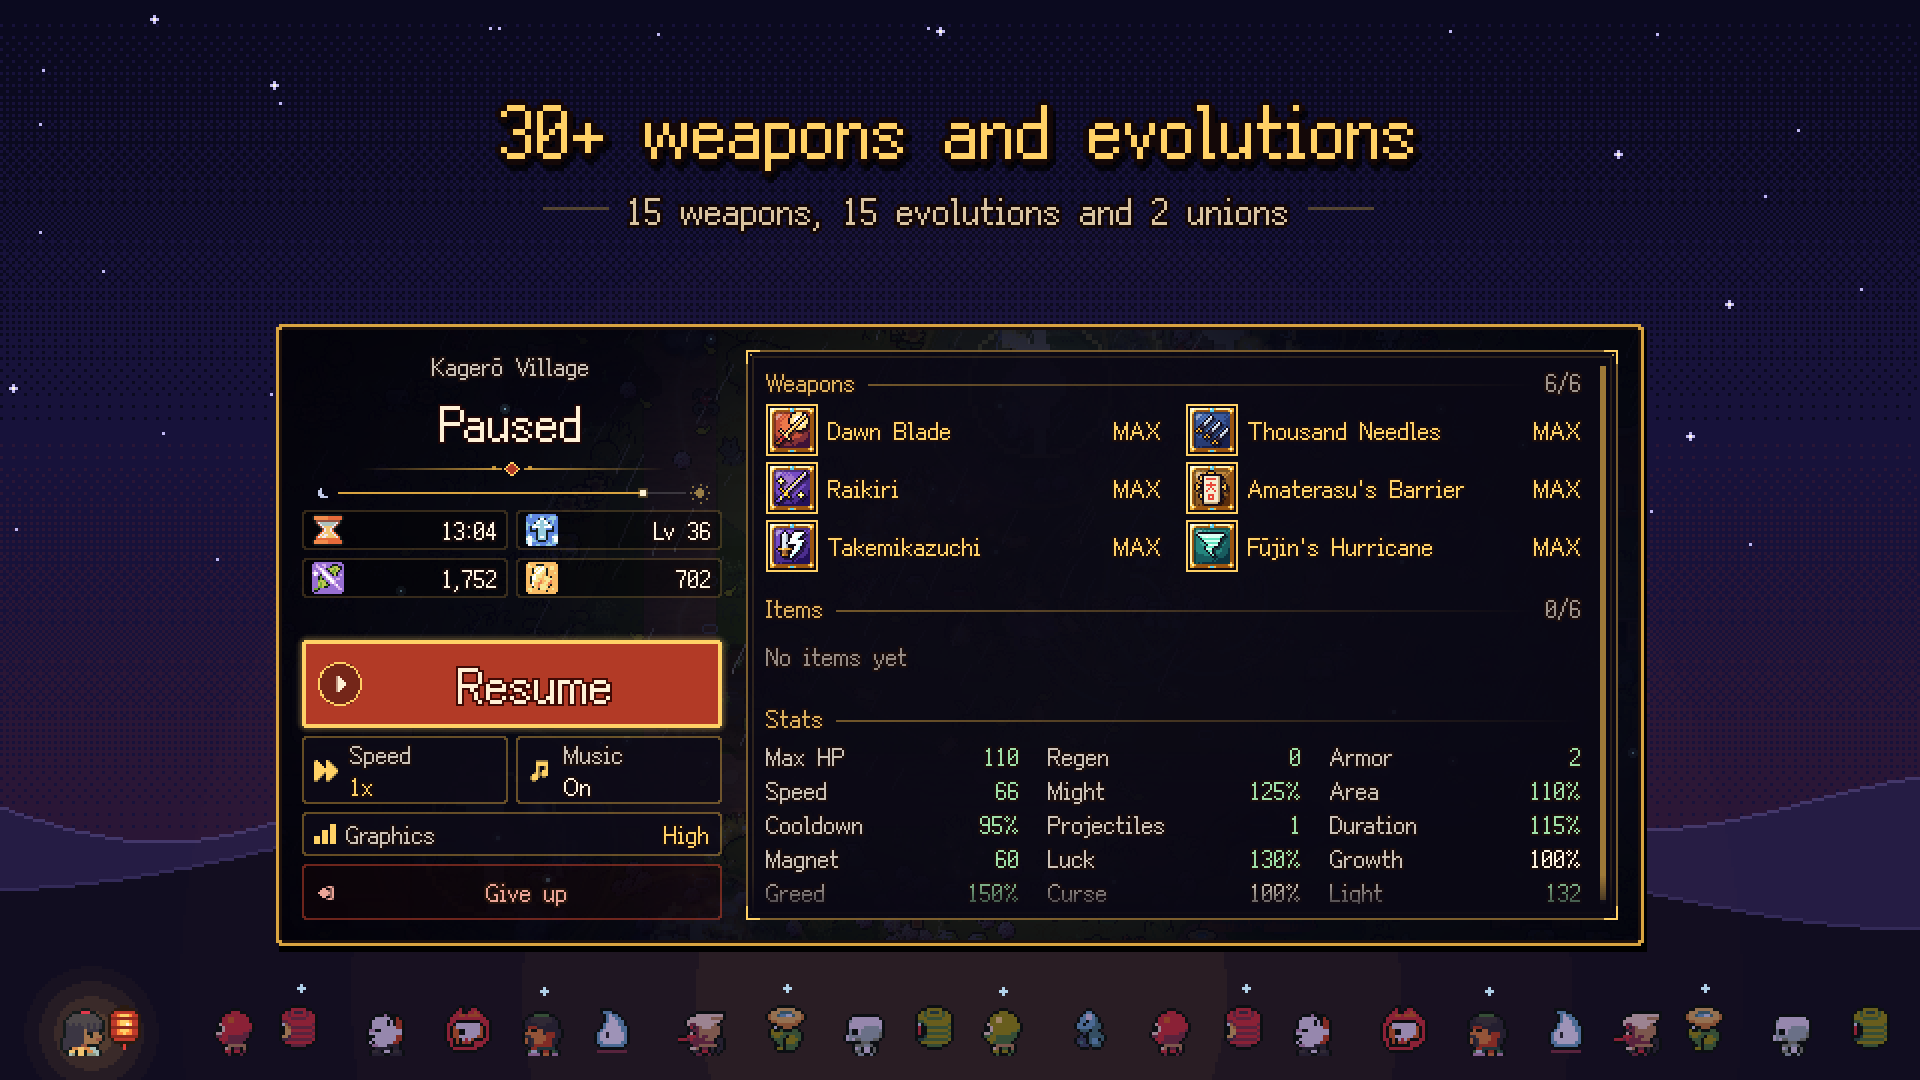
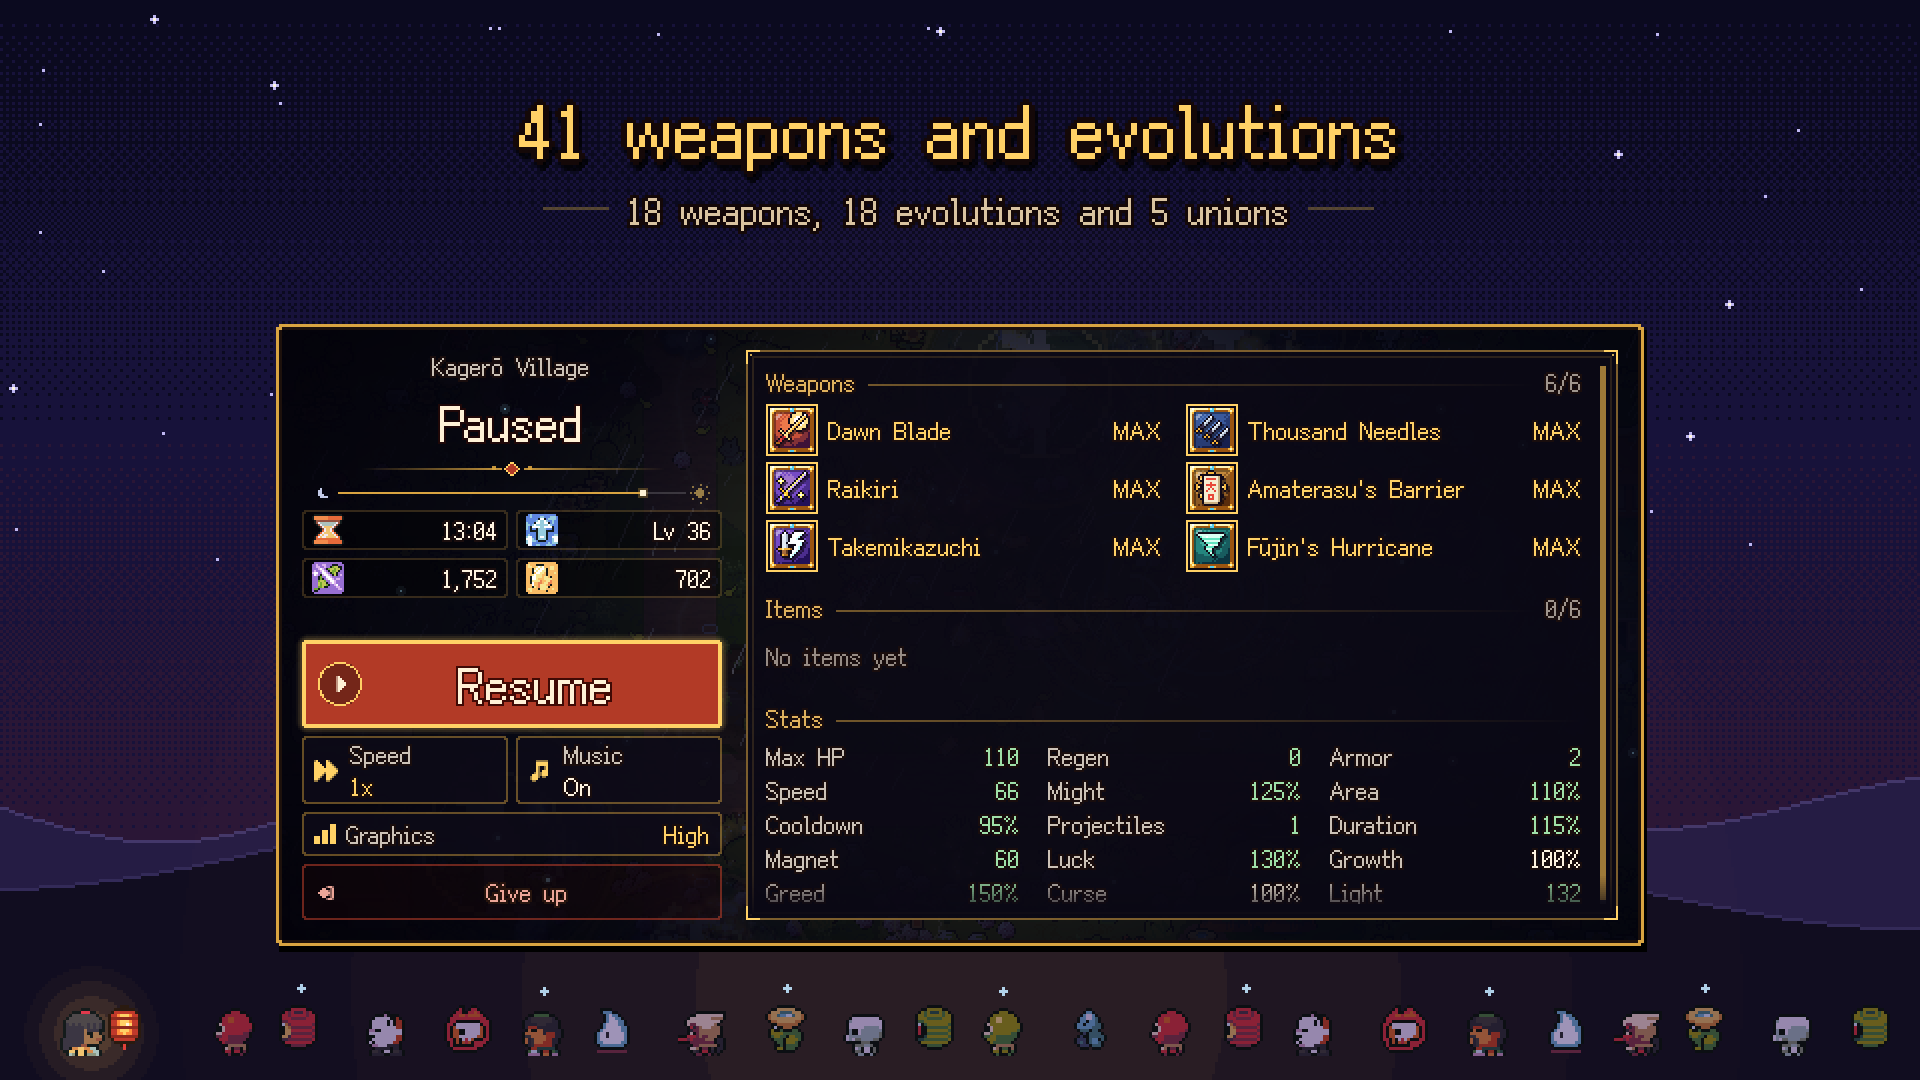
Legendas das capturas da loja com os números atuais: 06 "24 chefes lendários" / "18 chefes e 6 Sombras do Guardião" (en "24 legendary bosses" / "18 bosses and 6 Guardian's Shadows"; dizia 12 chefes) e 05 "41 armas e evoluções" / "18 armas, 18 evoluções e 5 uniões" (en "41 weapons and evolutions" / "

Changed region(s): [[0.25, 0.0917, 0.75, 0.1833], [0.5938, 0.1833, 0.625, 0.2139]]

diff --git a/tools/check_store_graphics.py b/tools/check_store_graphics.py
@@ -15,6 +15,8 @@ RULES = [
     ("icon_512.png", 512, 512, {6}, 1 * MB, 1),
     ("launcher/icon_192.png", 192, 192, {6}, 1 * MB, 1),
     ("launcher/adaptive_*_432.png", 432, 432, {6}, 1 * MB, 3),
+    # Ícones dos produtos das compras no app (Play Console: 512×512, até 1 MB).
+    ("products/*_512.png", 512, 512, {6}, 1 * MB, 2),
     ("feature_graphic_*.png", 1024, 500, {2}, 15 * MB, 3),
     # Referência na tela real do jogo (678×305 ×2): não vai para a Play (2,22:1 > 2:1).
     ("screenshots/raw/*/*.png", 1356, 610, {2}, 8 * MB, 16),

diff --git a/docs/store/play-console-guia.md b/docs/store/play-console-guia.md
@@ -11,7 +11,7 @@ tempos em tempos: se algo não bater, procure pelo nome em inglês entre parênt
 |---|---|
 | Nome do app | Hyakki: Até o Amanhecer |
 | ID do aplicativo (pacote) | `io.github.netstart.hyakki` (**não muda nunca mais** depois do primeiro envio) |
-| Versão do 1º envio | a do `export_presets.cfg` no momento do envio (hoje `1.23.1`, versionCode 49) |
+| Versão do 1º envio | a do `export_presets.cfg` no momento do envio (hoje `1.23.2`, versionCode 50) |
 | Desenvolvedor | conta pessoal, GitHub `netstart` |
 | E-mail público | netstart@gmail.com |
 | Site | https://netstart.github.io/ |
@@ -96,8 +96,8 @@ powershell -ExecutionPolicy Bypass -File tools\build_release.ps1
   `build\release\hyakki-release.apk` (para conferir no emulador ou aparelho).
 - Cada envio à Play Console precisa de um **versionCode maior** que o anterior. O versionCode e o
   versionName seguem o SemVer do `AGENTS.md` (sobem a cada commit); o script também aceita
-  `-VersionCode N -VersionName X.Y.Z` se precisar forçar. O 1º envio é a versão atual do `export_presets.cfg` (hoje `1.23.1`,
-  versionCode 49).
+  `-VersionCode N -VersionName X.Y.Z` se precisar forçar. O 1º envio é a versão atual do `export_presets.cfg` (hoje `1.23.2`,
+  versionCode 50).
 - Os IDs reais do AdMob **já estão no projeto** (`admob/general/android/app_id` no `project.godot` e
   `RELEASE_UNITS` em `scripts/ads/admob_provider.gd`), então o build de release sai com anúncios e
   compra ligados.
@@ -399,7 +399,7 @@ bloqueado.
 A Play **só deixa criar produto no app depois que um AAB com a permissão `BILLING` foi enviado para
 alguma faixa**. O teste interno serve. A ordem é:
 
-1. Envie o AAB da versão atual (hoje `1.23.1`) no **teste interno** ([seção 9.2](#92-teste-interno-primeiro-para-você)).
+1. Envie o AAB da versão atual (hoje `1.23.2`) no **teste interno** ([seção 9.2](#92-teste-interno-primeiro-para-você)).
 2. **Monetizar › Produtos › Produtos no app › Criar produto** (*In-app products*):
    - ID do produto: **`remove_open_ad`** (a constante `PRODUCT`; o ID **não pode ser mudado** nem
      reaproveitado depois);
@@ -474,7 +474,7 @@ conteúdo regional). Se algum país pedir documentação extra, remova só ele.
 ### 9.2 Teste interno (primeiro, para você)
 1. **Testar e lançar › Testes › Teste interno › Criar nova versão.**
 2. Aceite a **Assinatura de apps do Google Play** (seção 3).
-3. Envie `build\release\hyakki-release.aab`. Nome da versão: o `version/name` (hoje `1.23.1`).
+3. Envie `build\release\hyakki-release.aab`. Nome da versão: o `version/name` (hoje `1.23.2`).
 4. Notas da versão: as da [seção 9.5](#95-notas-da-versão-1-versão).
 5. Em **Testadores**, crie uma lista de e-mails com a sua conta, salve e abra o **link de inscrição**
    (*opt-in URL*) no celular. A versão aparece em minutos.
@@ -714,7 +714,7 @@ O jogo não precisa de credenciais de login para o robô.
 - [ ] AdMob: mensagem GDPR publicada (estados dos EUA opcional)
 - [ ] AdMob: aparelho cadastrado como dispositivo de teste
 - [ ] Play Console: perfil de pagamentos (comerciante) com dados fiscais
-- [ ] AAB da versão atual (hoje `1.23.1`) gerado com `tools\build_release.ps1` e conferido no aparelho de teste (abre sem
+- [ ] AAB da versão atual (hoje `1.23.2`) gerado com `tools\build_release.ps1` e conferido no aparelho de teste (abre sem
       anúncio, premiados, consentimento, "Privacidade e anúncios", "Restaurar compras")
 - [ ] Assinatura de apps do Google Play aceita
 - [ ] Teste interno enviado (1º AAB com `BILLING`)

diff --git a/docs/store/graphics/README.md b/docs/store/graphics/README.md
@@ -42,8 +42,8 @@ campos `launcher_icons/*` do `export_presets.cfg` para `res://assets/art/ui/app_
 | 02 | Horda nas dunas de cinza | Jogue com um dedo | Play with one finger |
 | 03 | Escolha de bênção ao subir de nível | Monte sua build a cada nível | Craft your build every level |
 | 04 | Golpe da Lanterna (Clarão da Aurora) | Golpe da Lanterna | Lantern Strike |
-| 05 | Pausa com 6 armas evoluídas | Mais de 30 armas e evoluções | 30+ weapons and evolutions |
-| 06 | Chefe Rei Tengu Corvo no templo | 12 chefes lendários | 12 legendary bosses |
+| 05 | Pausa com 6 armas evoluídas | 41 armas e evoluções | 41 weapons and evolutions |
+| 06 | Chefe Rei Tengu Corvo no templo | 24 chefes lendários | 24 legendary bosses |
 | 07 | Escolha do guardião | 7 guardiões, 7 estilos | 7 guardians, 7 playstyles |
 | 08 | Jornada do Guardião (mapa das fases) | Uma jornada pelo Japão mítico | A journey through mythic Japan |
 | 09 | Baú laqueado com evolução | Baús laqueados e evoluções | Lacquered chests and evolutions |
@@ -52,7 +52,8 @@ campos `launcher_icons/*` do `export_presets.cfg` para `res://assets/art/ui/app_
 | 12 | Resultados: vitória ao amanhecer | Chegue ao amanhecer | Make it to dawn |
 
 Tablets (7" e 10"): 01, 02, 03 e o guardião (07). Números das legendas conferidos nos dados:
-15 armas + 15 evoluções + 2 uniões (`data/weapons.json`), 12 chefes, 7 guardiões, 18 ofertas.
+18 armas + 18 evoluções + 5 uniões (`data/weapons.json`), 24 chefes (18 + 6 Sombras do Guardião,
+`data/bosses.json`), 7 guardiões, 18 ofertas.
 
 ## Como regenerar
 
